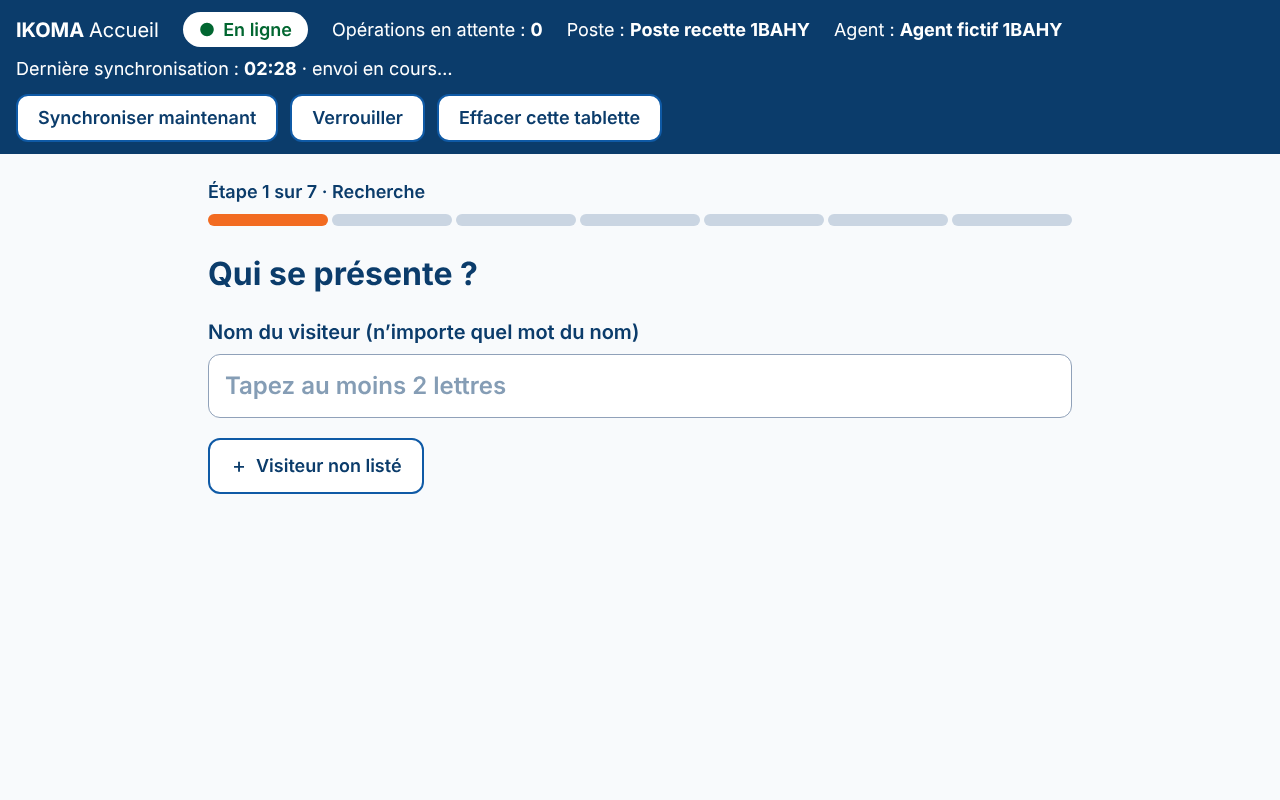
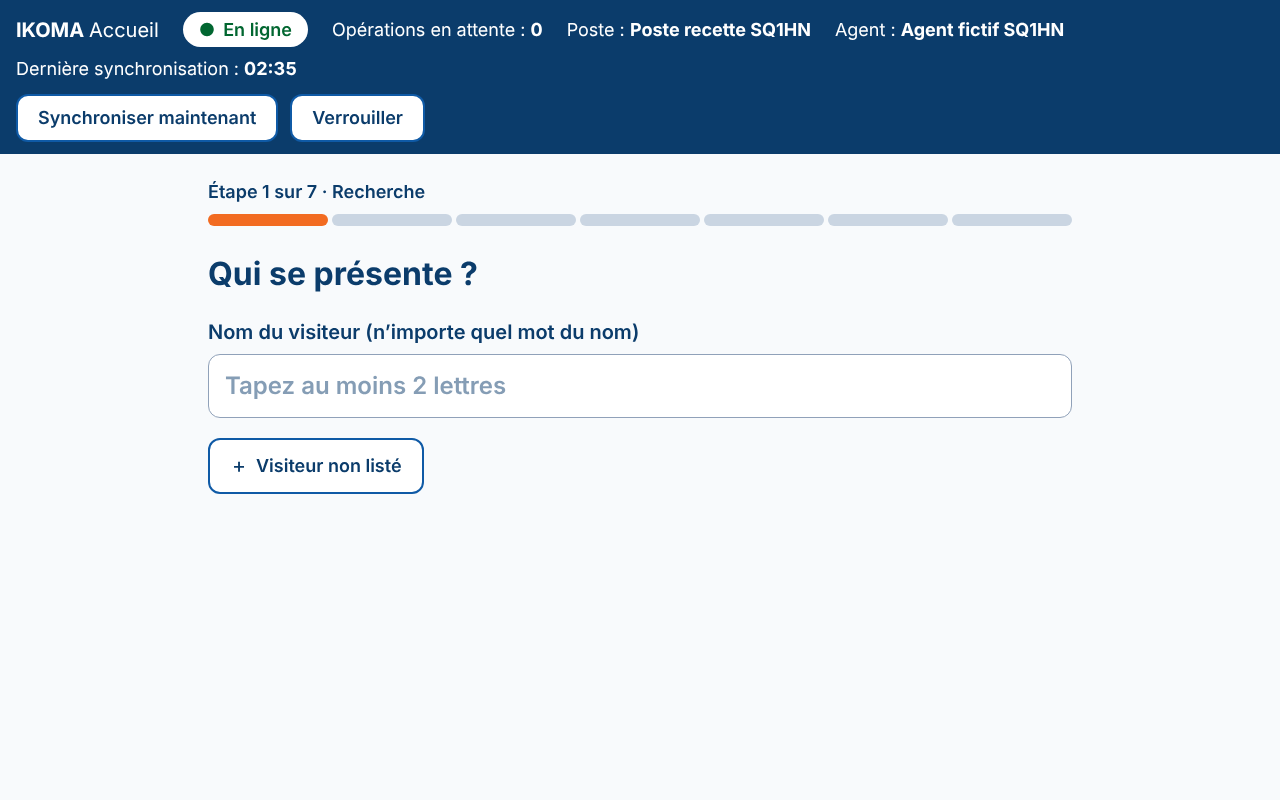
L6: retire le bouton d'effacement de l'agent, l'effacement manuel passe par la révocation du superviseur
Claude-Session: https://claude.ai/code/session_01X1Ej2PH2N6ethSrgGJNvd7

Changed region(s): [[0.3438, 0.0938, 0.5312, 0.1875], [0.5938, 0.0312, 0.8438, 0.0625], [0.2188, 0.0625, 0.3438, 0.0938]]

diff --git a/tests/e2e/poste.spec.ts b/tests/e2e/poste.spec.ts
@@ -299,11 +299,20 @@ test('30 visiteurs traités sans réseau, tablette rouverte sans réseau, puis e
   await page.close();
 });
 
-test('« Effacer cette tablette » supprime toutes les données locales et redemande un enrôlement', async () => {
+test('la révocation par l’administrateur efface la tablette à sa prochaine synchronisation', async ({ browser, baseURL }) => {
   const page = await desk();
-  await button(page, 'Effacer cette tablette').click(); await shot(page, 'l6-effacer-confirmation');
-  await page.getByTestId('effacer-oui').click();
-  await expect(page.getByTestId('ecran-enrolement')).toBeVisible(); await expect(page.getByTestId('message-efface')).toBeVisible(); await shot(page, 'l6-efface');
+  await expect(page.getByRole('button', { name: 'Effacer cette tablette' })).toHaveCount(0); // l'effacement n'est pas à la portée de l'agent
+  const adminContext = await browser.newContext({ baseURL });
+  const admin = await adminContext.newPage();
+  await admin.goto('/login'); await admin.getByLabel('Adresse électronique').fill(fx.admin.email); await admin.getByLabel('Mot de passe', { exact: true }).fill(fx.admin.password); await admin.getByRole('button', { name: 'Se connecter' }).click();
+  await admin.getByLabel('Code à six chiffres').fill(otp(fx.admin.secret)); await admin.getByRole('button', { name: 'Vérifier', exact: true }).click();
+  await expect(admin).toHaveURL(/\/espace/);
+  await admin.goto('/administration/postes');
+  admin.once('dialog', dialog => dialog.accept());
+  await admin.locator(`xpath=//h2[contains(., "${fx.poste}")]/ancestor::*[self::section or self::div][1]`).getByRole('button', { name: 'Révoquer ce poste' }).click();
+  await expect(admin.getByText('Révoqué')).toBeVisible(); await shot(admin, 'l6-admin-revoque');
+  await button(page, 'Synchroniser maintenant').click();
+  await expect(page.getByTestId('ecran-enrolement')).toBeVisible(); await expect(page.getByTestId('message-efface')).toContainText('déconnectée par l’administrateur'); await shot(page, 'l6-efface');
   const rows = await page.evaluate(async () => {
     const db = await new Promise<IDBDatabase>((resolve, reject) => { const request = indexedDB.open('ikoma-poste'); request.onsuccess = () => resolve(request.result); request.onerror = () => reject(request.error); });
     let total = 0;
@@ -312,5 +321,6 @@ test('« Effacer cette tablette » supprime toutes les données locales et redem
     return total;
   });
   expect(rows).toBe(0);
+  await adminContext.close();
   await page.close();
 });

diff --git a/resources/js/components/poste/StatusBar.vue b/resources/js/components/poste/StatusBar.vue
@@ -1,11 +1,9 @@
 <script setup lang="ts">
-import { computed, ref } from 'vue';
+import { computed } from 'vue';
 import type { SyncState } from '../../poste/local/sync';
 const props = defineProps<{ poste: string | null; agent: string; online: boolean; pending: number; sync?: SyncState | null }>();
-const emit = defineEmits<{ sync: []; lock: []; wipe: [] }>();
-const confirming = ref(false);
+const emit = defineEmits<{ sync: []; lock: [] }>();
 const last = computed(() => (props.sync?.lastSyncAt ? new Date(props.sync.lastSyncAt).toLocaleTimeString('fr-FR', { hour: '2-digit', minute: '2-digit' }) : 'jamais'));
-function wipe() { confirming.value = false; emit('wipe'); }
 </script>
 <template>
   <header class="bg-ikoma-navy px-4 py-3 text-white" aria-label="État du poste">
@@ -20,12 +18,6 @@ function wipe() { confirming.value = false; emit('wipe'); }
     <div v-if="sync" class="mt-3 flex flex-wrap items-center gap-3">
       <button type="button" class="btn-soft !min-h-12 !py-1" :disabled="sync.syncing" data-testid="synchroniser" @click="emit('sync')">Synchroniser maintenant</button>
       <button type="button" class="btn-soft !min-h-12 !py-1" data-testid="verrouiller" @click="emit('lock')">Verrouiller</button>
-      <button v-if="!confirming" type="button" class="btn-soft !min-h-12 !py-1" data-testid="effacer" @click="confirming = true">Effacer cette tablette</button>
-      <span v-else class="inline-flex flex-wrap items-center gap-2 rounded-xl bg-white px-3 py-1 text-red-900" role="alertdialog" aria-label="Confirmer l’effacement">
-        Effacer toutes les données de cette tablette ?
-        <button type="button" class="btn-no !min-h-10 !w-auto !py-1 !text-base" data-testid="effacer-oui" @click="wipe">Oui, effacer</button>
-        <button type="button" class="btn-soft !min-h-10 !py-1" @click="confirming = false">Non</button>
-      </span>
     </div>
     <p v-if="sync?.needsLogin" role="alert" class="mt-2 rounded-lg bg-amber-100 px-3 py-2 font-semibold text-amber-950" data-testid="reconnexion"><span aria-hidden="true">⚠</span> Votre session a expiré : <a class="underline" href="/login">reconnectez-vous</a> pour envoyer vos opérations (elles restent enregistrées sur la tablette).</p>
     <p v-if="sync?.stale" class="mt-2 rounded-lg bg-amber-100 px-3 py-2 font-semibold text-amber-950" data-testid="liste-ancienne"><span aria-hidden="true">⚠</span> La liste des visiteurs n’a pas été actualisée depuis plus d’une heure : un visiteur ajouté ou modifié depuis peut manquer.</p>

diff --git a/resources/js/components/poste/PosteApp.vue b/resources/js/components/poste/PosteApp.vue
@@ -9,7 +9,7 @@ import StepRefused from './StepRefused.vue'; import UnlistedForm from './Unliste
 
 import type { SyncState } from '../../poste/local/sync';
 const props = defineProps<{ agent: string; repository?: PosteRepository; sync?: SyncState | null; autoSelect?: boolean }>();
-const emit = defineEmits<{ sync: []; lock: []; wipe: [] }>();
+const emit = defineEmits<{ sync: []; lock: [] }>();
 const STORAGE_KEY = 'ikoma.poste';
 const posteId = ref<string | null>(null);
 const repo: PosteRepository = props.repository ?? new HttpPosteRepository(() => posteId.value);
@@ -117,7 +117,7 @@ onBeforeUnmount(() => { window.removeEventListener('online', setOnline); window.
 
 <template>
   <div class="min-h-screen bg-slate-50 text-ikoma-navy">
-    <StatusBar :poste="posteName" :agent="agent" :online="online" :pending="sync ? sync.pending : pending" :sync="sync" @sync="emit('sync')" @lock="emit('lock')" @wipe="emit('wipe')" />
+    <StatusBar :poste="posteName" :agent="agent" :online="online" :pending="sync ? sync.pending : pending" :sync="sync" @sync="emit('sync')" @lock="emit('lock')" />
     <main id="contenu" class="mx-auto max-w-4xl space-y-6 px-4 py-6">
       <div v-if="error" role="alert" class="rounded-xl border-2 border-red-700 bg-red-50 p-4 text-lg text-red-900" data-testid="erreur">
         <p class="font-bold"><span aria-hidden="true">⚠</span> {{ error.message }}</p>

diff --git a/resources/js/components/poste/PosteGate.vue b/resources/js/components/poste/PosteGate.vue
@@ -81,7 +81,6 @@ async function unlock() {
   } finally { busy.value = false; }
 }
 
-async function wipeNow() { await runtime.wipe('manuel'); }
 async function syncNow() { await runtime.sync.sync(); }
 
 onMounted(async () => {
@@ -135,7 +134,7 @@ onBeforeUnmount(() => {
   </main>
 
   <template v-else>
-    <PosteApp :key="openKey" :agent="runtime.profile?.name ?? agent?.name ?? ''" :repository="runtime.repo ?? undefined" :sync="sync" :auto-select="true" @sync="syncNow" @lock="lock" @wipe="wipeNow" />
+    <PosteApp :key="openKey" :agent="runtime.profile?.name ?? agent?.name ?? ''" :repository="runtime.repo ?? undefined" :sync="sync" :auto-select="true" @sync="syncNow" @lock="lock" />
     <section v-if="conflicts.length" class="mx-auto max-w-4xl px-4 pb-8" aria-labelledby="conflits-titre" data-testid="conflits">
       <div class="rounded-2xl border-2 border-red-700 bg-red-50 p-5">
         <h2 id="conflits-titre" class="text-xl font-bold text-red-900"><span aria-hidden="true">⚠</span> {{ conflicts.length }} opération{{ conflicts.length > 1 ? 's' : '' }} refusée{{ conflicts.length > 1 ? 's' : '' }} par le serveur</h2>

diff --git a/docs/JOURNAL_DECISIONS.md b/docs/JOURNAL_DECISIONS.md
@@ -139,5 +139,5 @@ Statut : projet de travail en attente de validation du dirigeant. Le document `d
 - **Conflits** : `sync_conflicts` (opération, poste, agent, visiteur, raison, détails en identifiants) ; raisons : agent désactivé ou inconnu, droit manquant, fiche modifiée entre-temps par un autre poste, visiteur déjà entré, badge déjà associé / de catégorie différente / annulé, accord de l'hôte manquant, opération invalide, identifiant d'opération réutilisé avec une autre charge, horloge suspecte. Jamais d'écrasement : l'opération refusée est mise en quarantaine, journalisée (`sync.conflit`) et affichée à l'agent (« Compris » la retire de l'écran, pas de la base). Le code d'un badge n'est conservé dans les détails que s'il a la forme d'un code imprimé (`B-123`). L'écran du superviseur arrive au lot L8 ; en attendant, Administration > Postes liste les conflits ouverts et les compteurs reçues / appliquées / en conflit par poste.
 - **Heures** : l'heure de la tablette est envoyée avec chaque lot (`sent_at`) et avec chaque opération (`client_time`) ; le serveur calcule l'écart, le journalise (`sync.recue`) et, au-delà de `poste_ecart_horloge_secondes` (300 s), crée un conflit de type `horloge`. La tablette corrige ses calculs de période de validité avec l'écart mesuré à la dernière synchronisation.
 - **Service worker** : `/poste/shell` (page publique sans session ni nom) est précachée avec les fichiers compilés ; `/poste` passe toujours par le serveur (session, droits) et ne retombe sur la coquille précachée que si le réseau est coupé. Aucune réponse authentifiée n'est mise en cache. La mise à jour de l'application (`autoUpdate`) ne touche pas à IndexedDB.
-- **Effacement** : après 15 échecs de PIN, à la révocation par l'administrateur (détectée à la prochaine synchronisation), au bouton « Effacer cette tablette », et 24 h après la fin de l'événement **si plus rien n'est à envoyer** (sinon la tablette reste utilisable pour envoyer, l'effacement a lieu ensuite). La tablette déclare l'effacement au serveur (`POST /poste/api/efface`, `poste.efface`) quand elle a encore le réseau et son jeton.
+- **Effacement** : après 15 échecs de PIN, à la révocation par le superviseur ou l'administrateur (détectée à la prochaine synchronisation ; **aucun bouton d'effacement pour l'agent**, décision du dirigeant du 28 octobre 2026), et 24 h après la fin de l'événement **si plus rien n'est à envoyer** (sinon la tablette reste utilisable pour envoyer, l'effacement a lieu ensuite). La tablette déclare l'effacement au serveur (`POST /poste/api/efface`, `poste.efface`) quand elle a encore le réseau et son jeton.
 - **Cas laissés ouverts** : voir la section 12 de `docs/AUTH_HORS_LIGNE.md`.

diff --git a/docs/AUTH_HORS_LIGNE.md b/docs/AUTH_HORS_LIGNE.md
@@ -121,8 +121,8 @@ Les onze décisions de la section 11 ont été validées avec les recommandation
 
 1. **Poste logique et appareil physique (décision 10)** : un poste est une tablette enrôlée ; une tablette de secours reçoit son propre code d'enrôlement et ses propres badges réservés. Réenrôler un poste (nouveau code) invalide l'ancien jeton : l'ancienne tablette est refusée puis effacée à sa prochaine synchronisation.
 2. **Un seul agent par tablette** : le compte de l'agent qui enrôle la tablette est conservé (scellé) et signe les opérations. Changer d'agent demande d'effacer la tablette puis de l'enrôler à nouveau. Plusieurs agents sur une même tablette (chacun son PIN) ne sont pas prévus à ce lot.
-3. **Bouton « Effacer cette tablette » (décision 9)** : visible pour tout agent connecté au poste, pas seulement pour le superviseur, car aucun droit hors ligne ne permet de savoir qui est superviseur. Il demande une confirmation. À valider ou à restreindre.
-4. **Effacement après échecs de PIN** : la tablette est effacée, mais ne peut pas le déclarer au serveur (son jeton est détruit avec le reste) ; l'administrateur le constate à l'absence de synchronisation. L'effacement manuel, la révocation et la fin d'événement sont journalisés (`poste.efface`).
+3. **Effacement par le superviseur (décision 9, précisée par le dirigeant le 28 octobre 2026)** : l'agent n'a aucun bouton d'effacement. L'effacement à la main est réservé au superviseur, par **Administration > Postes > Révoquer** : la tablette s'efface à sa prochaine synchronisation. Un effacement immédiat sur une tablette hors réseau, par un superviseur présent devant elle, demanderait un code d'effacement vérifiable hors ligne : non réalisé à ce lot (question ouverte).
+4. **Effacement après échecs de PIN** : la tablette est effacée, mais ne peut pas le déclarer au serveur (son jeton est détruit avec le reste) ; l'administrateur le constate à l'absence de synchronisation. La révocation et la fin d'événement sont journalisées (`poste.efface`).
 5. **Effacement de fin d'événement** : 24 h après la fin, **seulement si la file est vide** ; sinon la tablette garde la file pour pouvoir l'envoyer. L'export chiffré avant effacement n'est pas réalisé (question ouverte).
 6. **Détection de tablette clonée** (section 9) : non réalisée à ce lot. Le jeton est lié au secret d'appareil mais le serveur ne compare pas encore les séquences de deux appareils.
 7. **Visiteur non listé hors ligne** : la fiche rapide est créée localement et envoyée ; l'accord de l'hôte est reçu avec la liste suivante (l'écran de l'hôte arrive au lot L10). Tant que l'accord manque, ni validation ni entrée.
